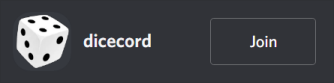
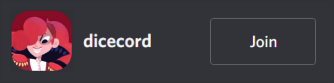
Finally got the site up and running again

Changed region(s): [[0.0299, 0.1205, 0.2395, 0.8675]]

diff --git a/docs/blog/2022/out-now.html b/docs/blog/2022/out-now.html
@@ -1,0 +1,203 @@
+<!DOCTYPE html>
+<html lang="en-US">
+
+  <head>
+    <meta charset='utf-8'>
+    <meta http-equiv="X-UA-Compatible" content="chrome=1">
+    <meta name="viewport" content="width=device-width,maximum-scale=2">
+    <meta name="description" content="Dicey Dungeons : ">
+
+    <link rel="stylesheet" type="text/css" media="screen" href="/assets/css/style.css?v=">
+<script src="assets/js/moment.min.js"></script>
+<!-- Begin Jekyll SEO tag v2.5.0 -->
+<title>Dicey Dungeons OUT NOW! | Dicey Dungeons</title>
+<meta name="generator" content="Jekyll v3.8.4" />
+<meta property="og:title" content="Dicey Dungeons OUT NOW!" />
+<meta property="og:locale" content="en_US" />
+<meta name="description" content="It’s finally here! Version 17, the very last alpha before launch! I’m so excited to show you what we’ve been working on!" />
+<meta property="og:description" content="It’s finally here! Version 17, the very last alpha before launch! I’m so excited to show you what we’ve been working on!" />
+<meta property="og:site_name" content="Dicey Dungeons" />
+<meta property="og:type" content="article" />
+<meta property="article:published_time" content="2019-05-20T10:30:00+09:30" />
+<script type="application/ld+json">
+{"description":"It’s finally here! Version 17, the very last alpha before launch! I’m so excited to show you what we’ve been working on!","@type":"BlogPosting","url":"/blog/2022/out-now.html","headline":"Dicey Dungeons OUT NOW!","dateModified":"2022-11-20T10:30:00+09:30","datePublished":"2022-11-20T10:30:00+09:30","mainEntityOfPage":{"@type":"WebPage","@id":"/blog/2022/out-now.html"},"@context":"http://schema.org"}</script>
+<!-- End Jekyll SEO tag -->
+
+  </head>
+
+  <body>
+
+    <!-- HEADER -->
+    <div id="header_wrap" class="outer">
+        <header class="inner">
+          <center><img src="/assets/images/v015banner.jpg" width="640" style="border: none; box-shadow: none;"></center>
+        </header>
+        
+        <div style="text-align:center; margin-top: -1%;"><a href="/index.html" class="btn-gradient blue">Home</a> <a href="/blog/2019/05/20/version-17.html" class="btn-gradient blue">Latest Version</a> <a href="https://store.steampowered.com/app/861540/Dicey_Dungeons/" class="btn-gradient blue">Steam Page</a> <a href="https://discord.gg/PBW2t76" class="btn-gradient blue">Join the Discord</a></div>
+    </div>
+
+    <!-- MAIN CONTENT -->
+    <div id="main_content_wrap" class="outer">
+      <section id="main_content" class="inner">
+        <div class="home"><h1 class="page-heading"></h1><h1 class="entry-title">
+    <center><a href="">Dicey Dungeons OUT NOW!</a></center>
+  </h1>
+  <div style="text-align:center; font-size: large; margin-top: -3%;"><span style="font-weight: bold;">Nov 21, 2022</span></div>
+  
+  
+  <p>Oh wow. So, uh, as I write this, Dicey Dungeons is out. In fact, it's <em>been out</em> now for more than 3 years! A lot's happened! It took me a while to get to this line on my to-do list!</p>
+
+  <p>Near the game's launch in 2019, I replaced this site with a placeholder for the launch date, and I never got around to fixing it up. But I figured it was about time I changed that - if for no other reason than to restore <a href="/blog/2019/05/20/version-17.html">the old development blog posts</a>.</p>
+
+  <p>I'll link to store pages and things like that on the front page, but for here, let's use this page to link to a few other things that might be of interest:</p>
+
+<center><img src="/assets/images/outnow/21_header.png" width="640" /></center>
+<div style="text-align:center; font-size: large; font-weight: bold; margin-top: -3%;">More Dicey blogposts</div>
+
+<p>My personal blog is the main place I've kept writing about Dicey Dungeons since the launch: <a href="https://distractionware.com/blog/category/dicey-dungeons/">https://distractionware.com/blog/category/dicey-dungeons/</a></p>
+
+<p>My favourite is this post, <a href="https://distractionware.com/blog/2022/07/the-reunion-reunion/">"The Reunion Reunion"</a>, which is a retrospective of the game's development released shortly before the Reunion DLC.</p>
+
+<center><img src="/assets/images/outnow/wiki.png" width="640" /></center>
+<div style="text-align:center; font-size: large; font-weight: bold; margin-top: -3%;">The official wiki</div>
+
+<p>The <a href="https://wiki.diceydungeons.com/">Dicey Dungeons wiki</a> is really great now, with a tonne of useful information about the game's mechanics, episodes, and DLC.</p>
+
+<center><img src="/assets/images/outnow/mods.png" width="640" /></center>
+<div style="text-align:center; font-size: large; font-weight: bold; margin-top: -3%;">Dicey Modding</div>
+
+<p>Dicey Modding found it's home on itch.io, under the <a href="https://itch.io/game-mods/new-and-popular/tag-dicey-dungeons">dicey-dungeons</a> tag!</p>
+
+<center><img src="/assets/images/outnow/devolution.png" width="640" /></center>
+<div style="text-align:center; font-size: large; font-weight: bold; margin-top: -3%;">Devolution</div>
+
+<p>As part of AMAZE 2020, Dicey Dungeons was in an online exhibition called <a href="http://www.6.devolution.online/">Devolution</a>, about how it was made!</p>
+
+<center><img src="/assets/images/outnow/alphas.png" width="640" /></center>
+<div style="text-align:center; font-size: large; font-weight: bold; margin-top: -3%;">The old alphas</div>
+
+<p>Finally, just to mention, the old public alphas are still online <a href="https://terrycavanaghgames.com/dice/">here</a>!</p>
+
+<p>Thanks to everyone who played Dicey Dungeons, during development, and beyond. It's been incredible <3</p>
+
+<p>- Terry</p>
+  
+  <hr>
+  <h5 class="entry-title">
+      Older builds and release notes:
+  </h5><ul class="post-list"><li><span class="post-meta">May 20, 2019</span>
+        <h3>
+          <a class="post-link" href="/blog/2019/05/20/version-17.html">
+            Dicey Dungeons 0.17
+          </a>
+        </h3></li><li><span class="post-meta">Feb 27, 2019</span>
+        <h3>
+          <a class="post-link" href="/blog/2019/02/27/version-16.html">
+            Dicey Dungeons 0.16
+          </a>
+        </h3></li><li><span class="post-meta">Dec 25, 2018</span>
+        <h3>
+          <a class="post-link" href="/blog/2018/12/25/version-15.html">
+            Dicey Dungeons 0.15
+          </a>
+        </h3></li><li><span class="post-meta">Oct 14, 2018</span>
+        <h3>
+          <a class="post-link" href="/blog/2018/10/14/version-14.html">
+            Dicey Dungeons 0.14
+          </a>
+        </h3></li><li><span class="post-meta">Sep 29, 2018</span>
+        <h3>
+          <a class="post-link" href="/blog/2018/09/29/version-13.html">
+            Dicey Dungeons 0.13
+          </a>
+        </h3></li><li><span class="post-meta">Sep 1, 2018</span>
+        <h3>
+          <a class="post-link" href="/blog/2018/09/01/version-12.html">
+            Dicey Dungeons 0.12
+          </a>
+        </h3></li><li><span class="post-meta">Aug 6, 2018</span>
+        <h3>
+          <a class="post-link" href="/blog/2018/08/06/version-11.html">
+            Dicey Dungeons 0.11
+          </a>
+        </h3></li><li><span class="post-meta">Jul 6, 2018</span>
+        <h3>
+          <a class="post-link" href="/blog/2018/07/06/version-10.html">
+            Dicey Dungeons 0.10
+          </a>
+        </h3></li><li><span class="post-meta">Jun 22, 2018</span>
+        <h3>
+          <a class="post-link" href="/blog/2018/06/22/version-9.html">
+            Dicey Dungeons 0.9
+          </a>
+        </h3></li><li><span class="post-meta">Jun 8, 2018</span>
+        <h3>
+          <a class="post-link" href="/blog/2018/06/08/version-8.html">
+            Dicey Dungeons 0.8
+          </a>
+        </h3></li><li><span class="post-meta">May 18, 2018</span>
+        <h3>
+          <a class="post-link" href="/blog/2018/05/18/version-7.html">
+            Dicey Dungeons 0.7
+          </a>
+        </h3></li><li><span class="post-meta">May 4, 2018</span>
+        <h3>
+          <a class="post-link" href="/blog/2018/05/04/version-6.html">
+            Dicey Dungeons 0.6
+          </a>
+        </h3></li><li><span class="post-meta">Apr 20, 2018</span>
+        <h3>
+          <a class="post-link" href="/blog/2018/04/20/version-5.html">
+            Dicey Dungeons 0.5
+          </a>
+        </h3></li><li><span class="post-meta">Apr 6, 2018</span>
+        <h3>
+          <a class="post-link" href="/blog/2018/04/06/version-4.html">
+            Dicey Dungeons 0.4
+          </a>
+        </h3></li><li><span class="post-meta">Mar 30, 2018</span>
+        <h3>
+          <a class="post-link" href="/blog/2018/03/30/version-3.html">
+            Dicey Dungeons 0.3
+          </a>
+        </h3></li><li><span class="post-meta">Mar 23, 2018</span>
+        <h3>
+          <a class="post-link" href="/blog/2018/03/23/version-2.html">
+            Dicey Dungeons 0.2
+          </a>
+        </h3></li><li><span class="post-meta">Mar 12, 2018</span>
+        <h3>
+          <a class="post-link" href="/blog/2018/03/12/version-1.html">
+            Dicey Dungeons 0.1 (7drl)
+          </a>
+        </h3></li></ul>
+
+    <p class="rss-subscribe">subscribe <a href="/feed.xml">via RSS</a></p></div>
+      </section>
+    </div>
+
+    <!-- FOOTER  
+    <div id="footer_wrap" class="outer">
+      <footer class="inner">
+        
+      </footer>
+    </div>-->
+    <!-- Default Statcounter code for diceydungeons.com
+http://www.diceydungeons.com -->
+<script type="text/javascript">
+var sc_project=11667004; 
+var sc_invisible=1; 
+var sc_security="6d1b83f5"; 
+</script>
+<script type="text/javascript"
+src="https://www.statcounter.com/counter/counter.js"
+async></script>
+<noscript><div class="statcounter"><a title="Web Analytics"
+href="http://statcounter.com/" target="_blank"><img
+class="statcounter"
+src="//c.statcounter.com/11667004/0/6d1b83f5/1/" alt="Web
+Analytics"></a></div></noscript>
+<!-- End of Statcounter Code -->
+    
+  </body>
+</html>

diff --git a/docs/index.html b/docs/index.html
@@ -1,7 +1,79 @@
-<html><head>
-<meta http-equiv="content-type" content="text/html; charset=ISO-8859-1"></head><body bgcolor=#FFFFFF><table valign="middle" align="center" width="60%" height="100%"><tbody><tr><td>
-<center><big>Dicey Dungeons is out now!</big><br><br><a href="https://store.steampowered.com/app/861540/Dicey_Dungeons/">[Steam]</a> <a href="https://terrycavanagh.itch.io/dicey-dungeons">[itch.io]</a><br><br>(to do: Website)</center>
-</td></tr></tbody></table>
+<!DOCTYPE html>
+<html lang="en-US">
 
+  <head>
+    <meta charset='utf-8'>
+    <meta http-equiv="X-UA-Compatible" content="chrome=1">
+    <meta name="viewport" content="width=device-width,maximum-scale=2">
+    <meta name="description" content="Dicey Dungeons : ">
 
-</body></html>
+    <link rel="stylesheet" type="text/css" media="screen" href="/assets/css/style.css?v=">
+<script src="assets/js/moment.min.js"></script>
+<!-- Begin Jekyll SEO tag v2.5.0 -->
+<title>Dicey Dungeons</title>
+<meta name="generator" content="Jekyll v3.8.4" />
+<meta property="og:title" content="Dicey Dungeons" />
+<meta property="og:locale" content="en_US" />
+<meta property="og:site_name" content="Dicey Dungeons" />
+<script type="application/ld+json">
+{"name":"Dicey Dungeons","@type":"WebSite","url":"/","headline":"Dicey Dungeons","@context":"http://schema.org"}</script>
+<!-- End Jekyll SEO tag -->
+
+  </head>
+
+  <body>
+
+    <!-- HEADER -->
+    <div id="header_wrap" class="outer">
+        <header class="inner">
+          <center><img src="/assets/images/v015banner.jpg" width="640" style="border: none; box-shadow: none;"></center>
+        </header>
+        
+        <div style="text-align:center; margin-top: -1%;"><a href="/index.html" class="btn-gradient blue">Home</a> <a href="/blog/2022/out-now.html" class="btn-gradient blue">Latest Version</a> <a href="https://store.steampowered.com/app/861540/Dicey_Dungeons/" class="btn-gradient blue">Steam Page</a> <a href="https://discord.gg/PBW2t76" class="btn-gradient blue">Join the Discord</a></div>
+    </div>
+
+    <!-- MAIN CONTENT -->
+    <div id="main_content_wrap" class="outer">
+      <section id="main_content" class="inner">
+<div class="blog-index">  
+  
+  
+  <center>
+  <a href="/blog/2022/out-now.html"><img src="/assets/images/outnow/21_header.png" width="640" /></a>
+  <h1 class="entry-title" style="margin-top: -3%;">
+     Latest version: Dicey Dungeons OUT NOW
+  </h1>
+<div style="text-align:center; font-size: large;"><a href="/blog/2022/out-now.html">[Read latest post]</a><br/><br/></div>
+
+<div style="text-align:center; font-size: large;">Available on:<br/><br/><a href="https://store.steampowered.com/app/861540/Dicey_Dungeons">[Steam]</a> <a href="https://terrycavanagh.itch.io/dicey-dungeons">[itch.io]</a> <a href="https://www.nintendo.com/games/detail/dicey-dungeons-switch">[Switch]</a> <a href="https://www.xbox.com/en-us/games/store/Dicey-Dungeons/9PC4C9NLP3ZD">[Xbox]</a><br/><a href="https://apps.apple.com/us/app/dicey-dungeons/id1368013995">[iOS]</a> <a href="https://play.google.com/store/apps/details?id=com.terrycavanaghgames.diceydungeons">[Android]</a><br/><br/></div>
+<div style="text-align:center; font-size: large;">Join us on discord!</div>
+<div style="text-align:center; font-size: large;"><a href="https://discord.gg/PBW2t76"><img src="assets/images/dicecord.png" /></a></div>
+
+      </section>
+    </div>
+
+    <!-- FOOTER  
+    <div id="footer_wrap" class="outer">
+      <footer class="inner">
+        
+      </footer>
+    </div>-->
+    <!-- Default Statcounter code for diceydungeons.com
+http://www.diceydungeons.com -->
+<script type="text/javascript">
+var sc_project=11667004; 
+var sc_invisible=1; 
+var sc_security="6d1b83f5"; 
+</script>
+<script type="text/javascript"
+src="https://www.statcounter.com/counter/counter.js"
+async></script>
+<noscript><div class="statcounter"><a title="Web Analytics"
+href="http://statcounter.com/" target="_blank"><img
+class="statcounter"
+src="//c.statcounter.com/11667004/0/6d1b83f5/1/" alt="Web
+Analytics"></a></div></noscript>
+<!-- End of Statcounter Code -->
+    
+  </body>
+</html>
